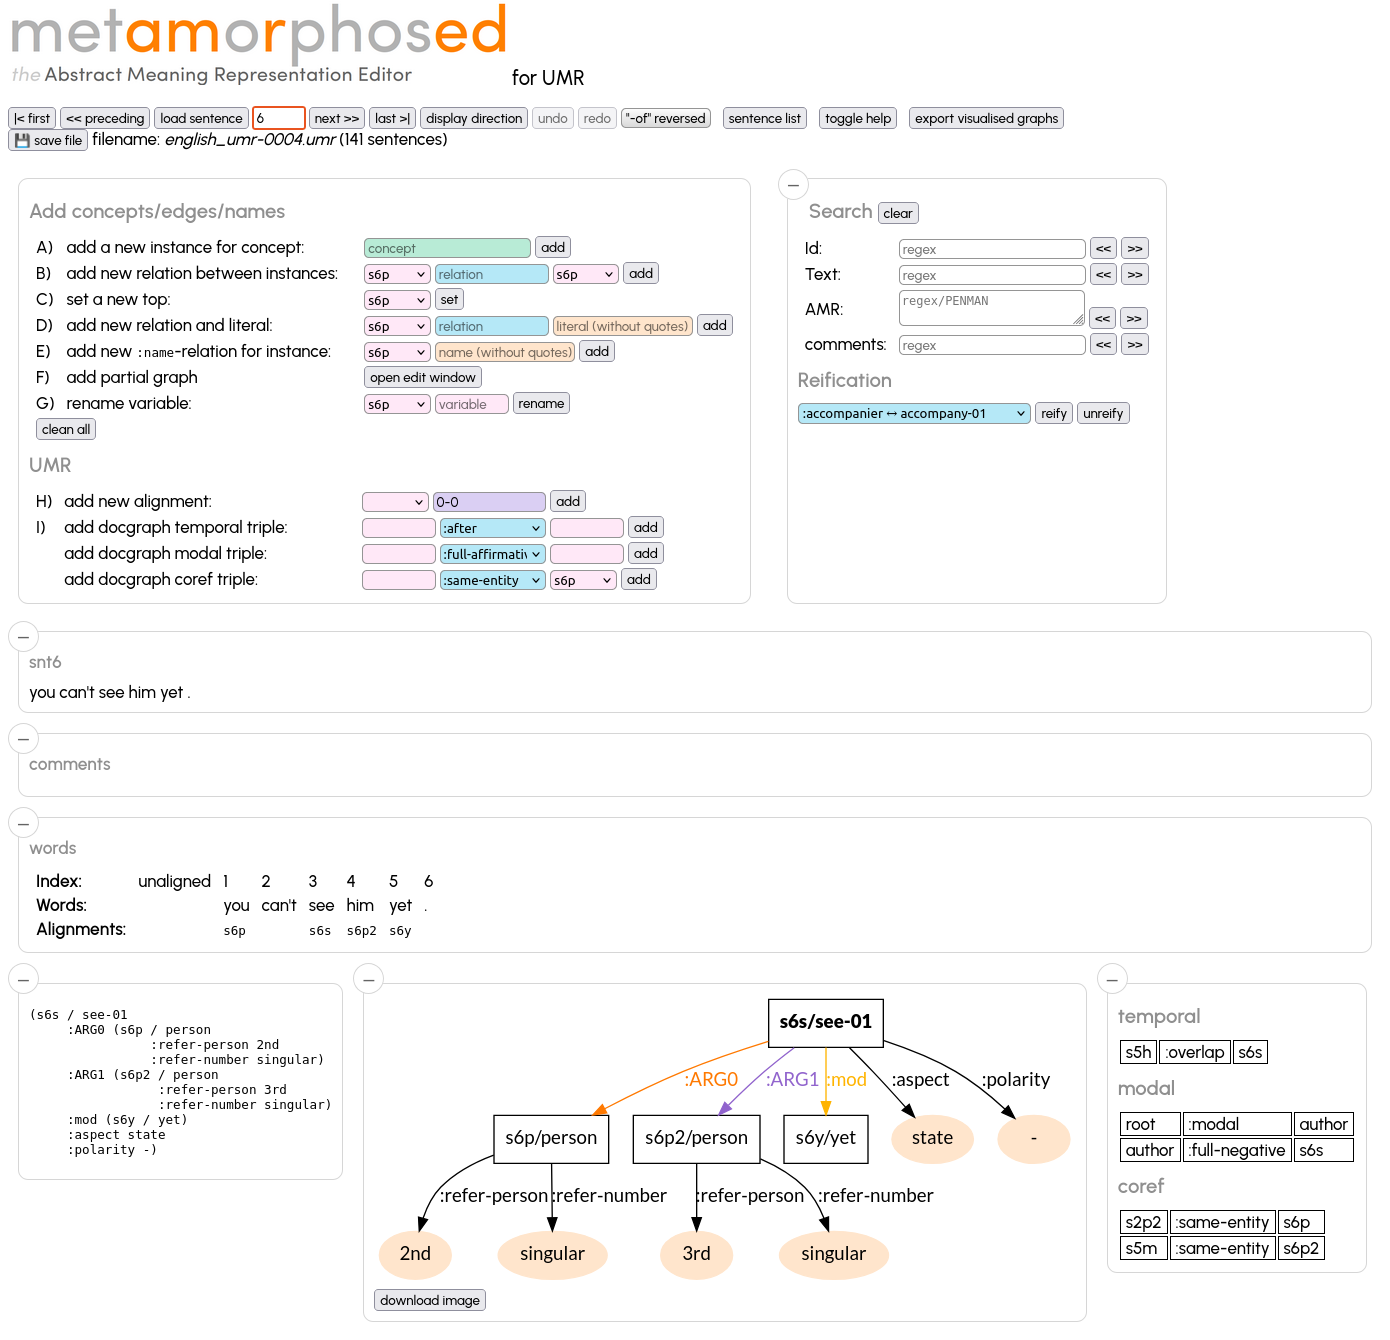
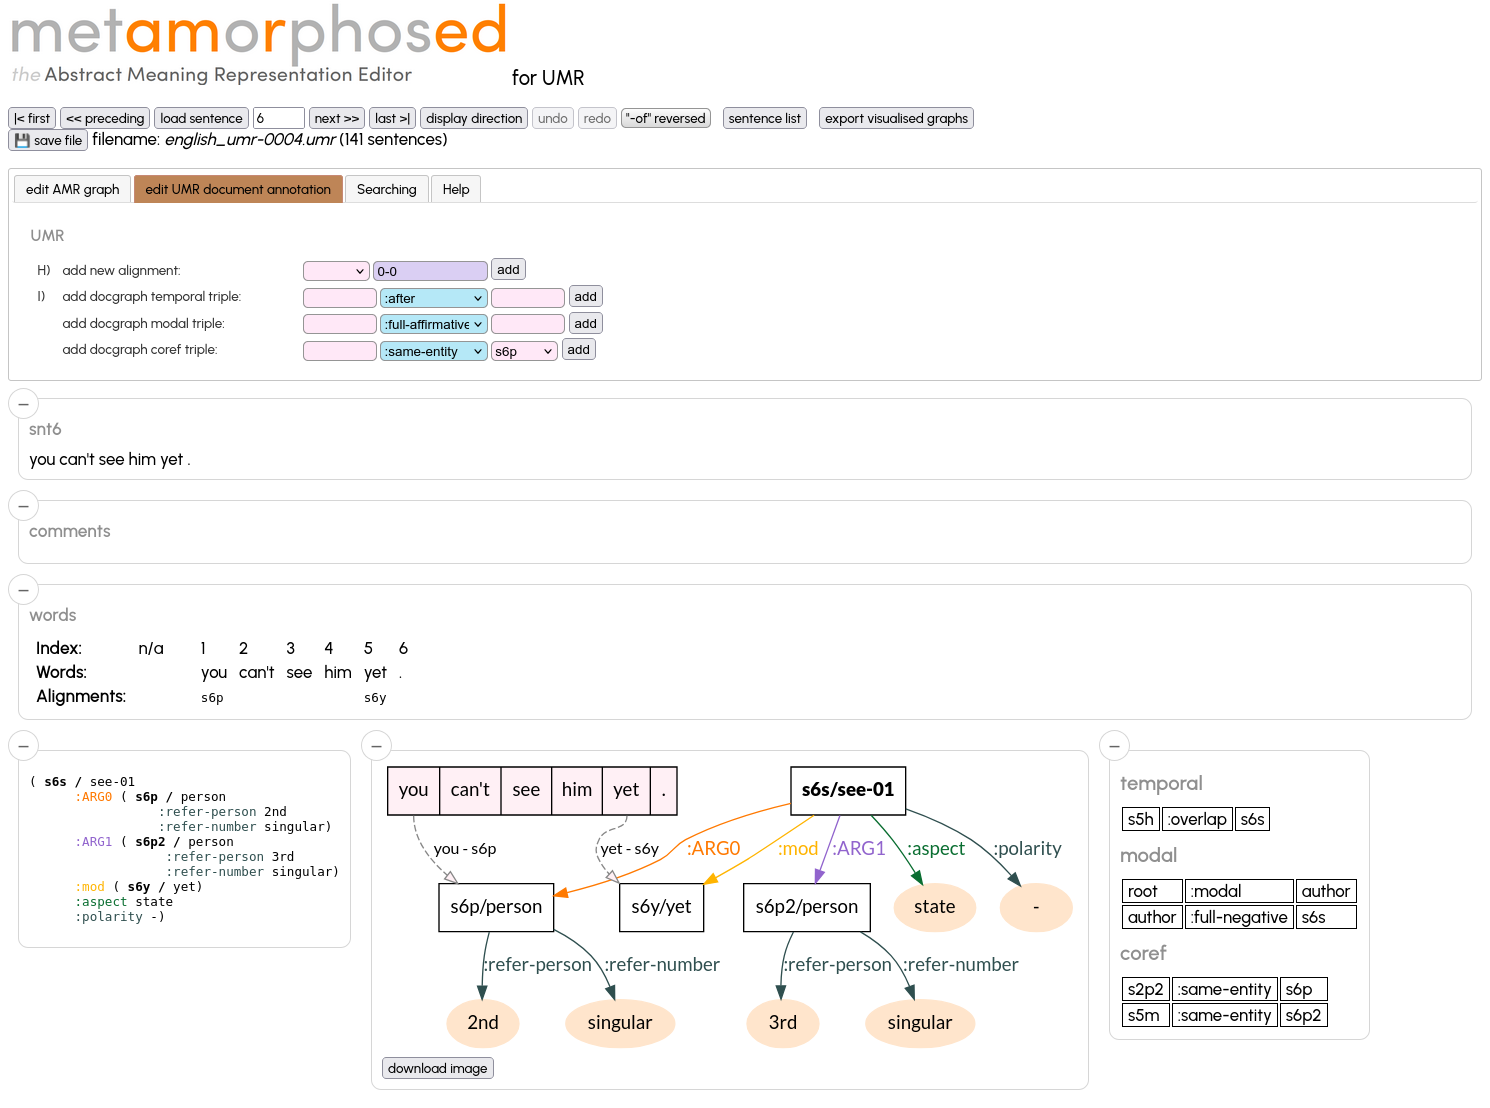
documentation updated

diff --git a/metamorphosed/unittests.py b/metamorphosed/unittests.py
@@ -349,7 +349,7 @@ def test_info(client):
     response = client.get("/version")
     res = json.loads(response.data)
     #print("res", res, file=sys.stderr)
-    assert res == {'name': 'AMR Editor', 'version': '5.0.0rc2', 'apiversion': '2.0.0rc'}
+    assert res == {'name': 'AMR Editor', 'version': '5.0.0rc3', 'apiversion': '2.0.0rc'}
 
     response = client.get("/info", query_string={"withdata": True})
     res = json.loads(response.data)

diff --git a/metamorphosed/amreditor.py b/metamorphosed/amreditor.py
@@ -33,7 +33,7 @@
 # Software Name: MetAMoRphosED AMR-Editor
 # Author: Johannes Heinecke
 
-# version 5.0.0rc as of 22nd November 2025
+# version 5.0.0rc3 as of 29th November 2025
 
 import io
 import re
@@ -49,7 +49,7 @@ import metamorphosed.amr_comparison as amr_comparison
 
 from metamorphosed.AMR_relations import orangecolors as orangecolors
 
-VERSION = "5.0.0rc2"
+VERSION = "5.0.0rc3"
 
 # terminology
 # instance  a / ...

diff --git a/UMR.md b/UMR.md
@@ -41,7 +41,9 @@ uv run ./metamorphosed_server.py \
 
 the options `--relations metamorphosed/data/umr-relations.txt`  `--relationsdoc metamorphosed/data/umr-relations-doc.json` are default options, so strictly speaking they are not necessary.
 
-Open your browser on `http://localhost:4567:
+Open your browser on `http://localhost:4567`. In addtion to the tabs already present for the AMS mode, a new tab `edit UMR document annotation` appears, which proposes option to modify the document level annotations.
+In addition the graph visualisation shows alignments (if available):
+
 
 ![Main window for UMR editing](doc/umr-main.png)
 
@@ -85,4 +87,4 @@ Validate by clicking on `set`, cancel by clicking on the circled `X` (top right)
 * TODO:
   * check whether variables in document level annotations are in document (Subject) or in current sentence (Object)
   * make `Words:`, `Index:` etc. editable
-  * activate undo/redo for changes in Alignments nad Document Level Annotation
+  * activate undo/redo for changes in Alignments and Document Level Annotation

diff --git a/README.md b/README.md
@@ -307,7 +307,7 @@ then click the `apply` button to see the result.
 ## Search, further info
 
 On the bottom of the main screen propbank definitions for all used concepts is displayed.
-Basic search is available in the search field. THE AMR-search field accepts two kinds of input
+Basic search is available in the search tab. THE AMR-search field accepts two kinds of input
 * a valid PENMAN graph: the search will find AMR graphs which contain the given PENMAN graph. So searching for `(e / eat-01 :ARG1 ( c / cheese ))` will find a graph like
 ```
 (v1 / eat-01
